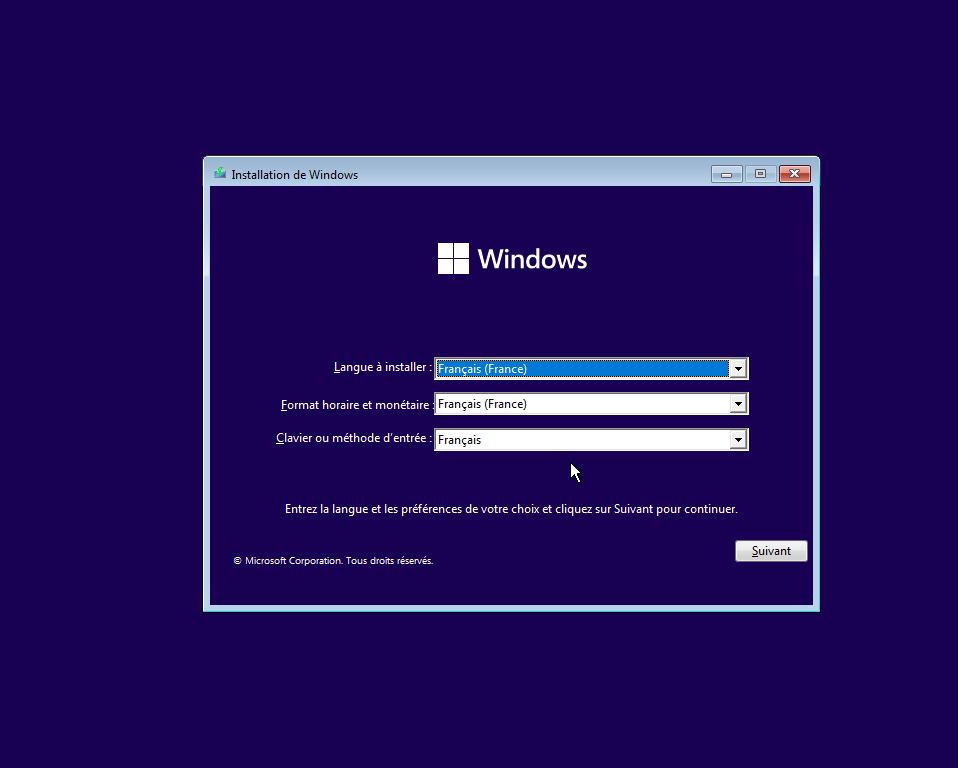
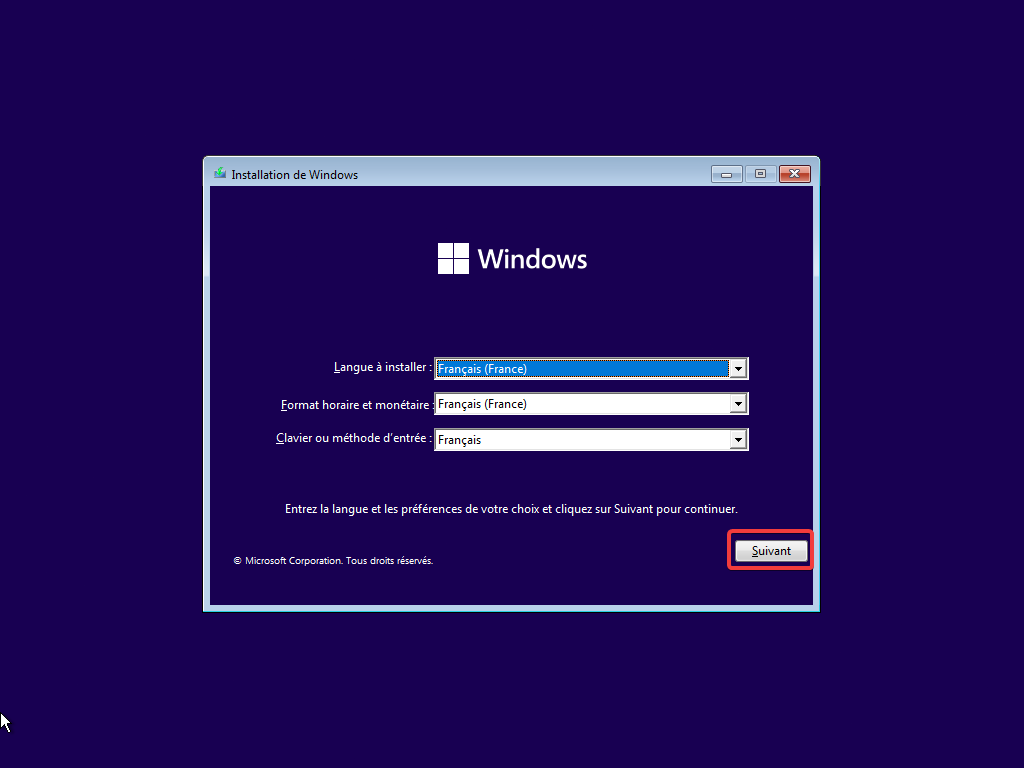
docs: rewrite windows reinstall first part, add get started notice and add punctuation

diff --git a/docs/windows-reinstall.md b/docs/windows-reinstall.md
@@ -4,36 +4,38 @@ title: Réinstallation de Windows
 
 ## Choses nécessaires
 
-- Une clé USB d'au moins 8 GB
-- Une souris USB
-- Le logiciel [Rufus](https://rufus.ie/)
+- Un ordinateur sur Windows 8 ou ultérieur avec les droits d'administrateur
+- Le logiciel [Rufus](https://rufus.ie/) à installer sur l'ordinateur mentionné ci-dessus
+- Une clé USB d'au moins 8 Go
+- Une souris USB (si votre Y13 est un 2023)
 
 ::: warning
-Vous **avez** besoin d'une souris USB pour effectuer l'installation de Windows. Les pilotes du pavé tactile du Y13 ne sont pas inclus par défaut sur Windows donc vous ne pourrez pas l'utiliser tant que vous n'aurez pas réinstallé les pilotes, ce que nous ferons plus tard.
+Si votre Y13 est un 2023, vous **avez** besoin d'une souris USB pour effectuer l'installation de Windows. Les pilotes du pavé tactile ne sont pas inclus par défaut sur Windows donc vous ne pourrez pas l'utiliser tant que vous n'aurez pas réinstallé les pilotes, ce que nous ferons plus tard.
 :::
 
 ::: tip
-Si vous avez déjà une clé USB avec une image pour installer Windows (Ventoy ou simple ISO), vous pouvez directement passer au [démarrage sur la clé USB](/windows-reinstall.html#demarrage-sur-la-cle-usb).
+Si vous avez déjà une clé USB avec une image pour installer Windows (Ventoy ou simple ISO), vous pouvez directement passer au [démarrage sur la clé USB](/windows-reinstall.html#demarrage-sur-la-cle-usb). Également, si vous souhaitez flasher votre ISO avec un autre logiciel, tel que Balena Etcher ou dd, libre à vous de le faire.
 :::
 
 ## Télécharger une ISO de Windows
 
 ### Méthode 1 - MSDL
 
-1. Allez sur [MSDL](https://msdl.gravesoft.dev/#2935)
-2. Sélectionnez la langue que vous voulez utiliser
-3. Cliquez sur `IsoX64 Download`
+1. Allez sur [MSDL](https://msdl.gravesoft.dev/)
+2. Sélectionnez "Windows 11 23H2 v2" pour Windows 11 ou "Windows 10 22H2 v1" pour Windows 10
+3. Sélectionnez la langue que vous voulez utiliser
+4. Cliquez sur `IsoX64 Download`
 
 ### Méthode 2 - OS.click
 
 ::: tip
-Cette méthode n'est qu'utile seulement si vous voulez utiliser une version plus ancienne de Windows 11 ou si MSDL est hors-ligne, privilégiez donc la méthode avec MSDL.
+Cette méthode n'est qu'utile seulement si vous voulez utiliser une version plus ancienne de Windows 11/10 ou si MSDL est hors-ligne, privilégiez donc la méthode avec MSDL.
 :::
 
 1. Allez sur [OS.click](https://os.click/en)
 2. Cliquez sur `GET MY ISO`
 3. Sélectionnez `Windows`
-4. Sélectionnez `Windows 11`
+4. Sélectionnez `Windows 11` ou `Windows 10`
 5. Sélectionnez la première option
 6. Sélectionnez la première option
 7. Sélectionnez `Multi-Edition`
@@ -44,43 +46,94 @@ Cette méthode n'est qu'utile seulement si vous voulez utiliser une version plus
 ## Flasher l'ISO sur votre clé USB
 
 ::: warning
-[WIP]
+Il faut noter que flasher votre ISO sur votre clé USB va la formatter, donc tout ce qui est actuellement dessus sera effacé !
 :::
 
-1. Ouvrez Rufus
-2. Vérifiez que `Périphérique` est bien votre clé USB
-3. Cliquez sur le bouton `SÉLECTION` puis sélectionnez votre ISO
-4. Cliquez sur `DÉMARRER`
-
+1. Ouvrez Rufus sur votre ordinateur avec les droits d'administrateur.
+2. Vérifiez que `Périphérique` est bien votre clé USB.
+3. Cliquez sur le bouton `SÉLECTION` puis sélectionnez votre ISO.
+4. Cliquez sur `DÉMARRER`.
+5. Un popup va apparaître, laissez les paramètres par défaut et cliquez sur `OK`.
+6. Une fois l'opération terminée, vous pouvez fermer Rufus et débranchez votre clé USB.
 
 ## Démarrage sur la clé USB
 
+1. Branchez votre clé USB à votre Y13.
 1. Allumez votre Y13.
 2. Quand le logo Unowhy apparaît, appuyez rapidement et plusieurs fois sur la touche Échap jusqu'à rentrer dans le menu de l'UEFI.
-3. Allez dans la catégorie `Save & Exit` en appuyant 5 fois sur la touche flèche droite.
-4. Sélectionnez votre clé USB dans la catégorie `Boot Override`.
+3. Allez dans la catégorie `Save & Exit` avec les touches `←` (flèche gauche) et `→` (flèche droite).
+4. Sélectionnez votre clé USB dans la catégorie `Boot Override` avec les touches `↓` (flèche bas) et `↑` (flèche haut) et appuyer sur Entrer pour démarrer.
+5. Appuyez sur n'importe quelle touche quand le texte `Press any key to boot from CD or DVD` apparaît.
+6. Attendez une vingtaine de secondes, le temps que l'installateur démarre.
 
 ## Installation de Windows
 
-1. Appuyez sur n'importe quelle touche quand le texte `Press any key to boot from CD or DVD` apparaît.
-2. Attendez une vingtaine de secondes. Cet écran devrait apparaître :
+Les instructions sont divisées en deux parties, en fonction de si vous avez choisi d'installer Windows 11 ou 10.
 
-![Premier écran de l'installateur de Windows 11](/assets/images/win11-installer-first-screen.png)
+<details>
+<summary>Instructions pour Windows 11</summary>
 
-3. Cliquez sur `Suivant` puis sur `Installer maintenant`.
-4. Attendez encore un peu, puis cliquez sur `Je n'ai pas de clé de produit (Product Key)`. Ne vous inquiétez pas, Windows s'activera tout seul, donc nous avons pas besoin de mettre de clé de produit.
-5. Sélectionnez l'édition de Windows que vous souhaitez installer (Windows 11 Professionnel est celle que je vous recommande) puis cliquez sur suivant.
-6. Cochez la case `J'accepte ...` et cliquez sur `Suivant` pour accepter les termes du contrat de license logiciel Microsoft que vous avez tous lu :)
-7. Cliquez sur `Personnalisé`
-8. Pour chaque partition dans la liste, sélectionnez la et cliquez sur `Supprimer`.
-9. Cliquez sur `Nouveau` puis sur `Appliquer` et `OK`.
+1. Cet écran devrait apparaître, cliquez sur suivant :
 
-Les étapes 8 et 9 devraient ressembler à ça :
+![](/assets/images/win11-installer-first-screen.png)
 
-![Création des partition avec l'installateur de Windows 11](/assets/images/win11-partitions.gif)
+2. Cliquez sur `Installer maintenant` :
 
-8. Sélectionnez la dernière partition puis cliquez sur `Suivant`, et attendez que Windows finisse de s'installer. L'installation peut durer assez longtemps, c'est normal. (sur une machine virtuelle ça a duré environ 30 minutes donc attendez vous à ce que ça dure autant sur un Y13)
+![](/assets/images/win11-installer-install-button-screen.png)
 
-Une fois l'installation terminée (enfin !), vous arriverez dans l'OOBE (oui, le même écran de configuration initiale que toute à l'heure si vous avez suivi la méthode WinRE). Vous pouvez donc suivre les étapes 6 et 7 de la page [WinRE](/winre.html), puisque nous allons mettre la même configuration.
+::: tip
+L'installateur sélectionnera automatiquement la version Windows 11 Pro Education, puisque la clé de produit est incluse dans l'UEFI.
+:::
 
-![Écran initial de l'OOBE](/assets/images/oobe-first-screen.png)
+3. Cochez la case `J'accepte ...` et cliquez sur `Suivant` pour accepter les termes du contrat de license logiciel Microsoft que vous avez bien évidemment lu :
+
+![](/assets/images/win11-installer-tos-screen.png)
+
+4. Cliquez sur `Personnalisé` :
+
+![](/assets/images/win11-installer-install-mode-screen.png)
+
+5. Pour chaque partition dans la liste, sélectionnez la et cliquez sur `Supprimer` :
+
+![](/assets/images/win11-installer-partitions-screen.png)
+
+6. Cliquez sur la partition non allouée qu'il reste puis sur `Suivant` :
+
+![](/assets/images/win11-installer-select-partition-screen.png)
+
+7. Attendez que l'installation se termine.
+</details>
+
+<details>
+<summary>Instructions pour Windows 10</summary>
+
+1. Cet écran devrait apparaître, cliquez sur suivant :
+
+![](/assets/images/win11-installer-first-screen.png)
+
+2. Cliquez sur `Installer maintenant` :
+
+![](/assets/images/win11-installer-install-button-screen.png)
+
+::: tip
+L'installateur sélectionnera automatiquement la version Windows 10 Pro Education, puisque la clé de produit est incluse dans l'UEFI.
+:::
+
+3. Cochez la case `J'accepte ...` et cliquez sur `Suivant` pour accepter les termes du contrat de license logiciel Microsoft que vous avez bien évidemment lu :
+
+![](/assets/images/win11-installer-tos-screen.png)
+
+4. Cliquez sur `Personnalisé` :
+
+![](/assets/images/win11-installer-install-mode-screen.png)
+
+5. Pour chaque partition dans la liste, sélectionnez la et cliquez sur `Supprimer` :
+
+![](/assets/images/win11-installer-partitions-screen.png)
+
+6. Cliquez sur la partition non allouée qu'il reste puis sur `Suivant` :
+
+![](/assets/images/win11-installer-select-partition-screen.png)
+
+7. Attendez que l'installation se termine.
+</details>

diff --git a/docs/winre.md b/docs/winre.md
@@ -16,12 +16,12 @@ En suivant cette page, tous les fichiers stockés sur votre Y13 seront supprimé
 
 ## Instructions
 
-1. Cliquez sur `Dépannage`
-2. Cliquez sur `Réinitialiser ce PC`
-3. Sélectionnez `Supprimer tout`
-3. Sélectionnez `Réinstallation locale`
-4. Sélectionnez `Supprimer simplement mes fichiers`
-5. Cliquez sur `Réinitialiser`
+1. Cliquez sur `Dépannage`.
+2. Cliquez sur `Réinitialiser ce PC`.
+3. Sélectionnez `Supprimer tout`.
+3. Sélectionnez `Réinstallation locale`.
+4. Sélectionnez `Supprimer simplement mes fichiers`.
+5. Cliquez sur `Réinitialiser`.
 
 Une fois que la réinitialisation est terminée, un logo Windows 11 animé suivant d'un écran demandant `Est-ce le bon pays ou la bonne région` devrait apparaître. Vous êtes donc rentré dans l'*OOBE*, ou *Out Of Box Experience*, qui est le logiciel qui se charge de faire la configuration initiale de Windows. 
 
@@ -39,5 +39,5 @@ Si la réinitialisation s'est bien passée, vous devriez maintenant posséder le
 :::
 
 ::: tip
-Continuez vers [Débloquer l'UEFI](/unlock-uefi.html)
+Continuez vers [Débloquer l'UEFI](/unlock-uefi.html).
 :::

diff --git a/docs/get-started.md b/docs/get-started.md
@@ -2,6 +2,14 @@
 title: "Commencer"
 ---
 
+## À lire avant de continuer
+
+Attention, la plupart des méthodes vont à un moment ou un autre vous demander de réinitialiser votre Y13. Les principales choses que vous allez perdre en le faisant sont :
+
+- Tous les fichiers dessus (sauvegardez les sur un autre ordinateur)
+- La connexion à votre compte monlycee.net sur Windows (la connexion avec monlycee.net sur Microsoft Office et sur votre ENT sera toujours possible donc c'est positif)
+- Les logiciels installés automatiquement par vos enseignants (il faudra les installer manuellement)
+
 ## Sélection d'une méthode
 
 Selon l'année de votre Unowhy Y13, différentes méthodes existent pour effectuer un jailbreak. Veuillez choisir la méthode correspondante avec le tableau ci-dessous.

diff --git a/docs/winre-verification.md b/docs/winre-verification.md
@@ -12,7 +12,7 @@ Malheureusement, la méthode WinRE ne fonctionne que sur très peu d'ordinateurs
 
 ## Vérification de WinRE
 
-1. Allumez votre ordinateur
+1. Allumez votre ordinateur.
 2. Sur la page de connection, cliquez sur le bouton en bas à droite.
 3. Maintenez la touche `SHIFT` et cliquez sur `Redémarrer`, puis sur `Redémarrer maintenant`.
 4. Continuez à maintenir `SHIFT` jusqu'à ce que votre ordinateur redémarre, puis affiche le logo Windows avec un texte `Veuillez patienter`. Vous devriez normalement arriver sur l'écran suivant :
